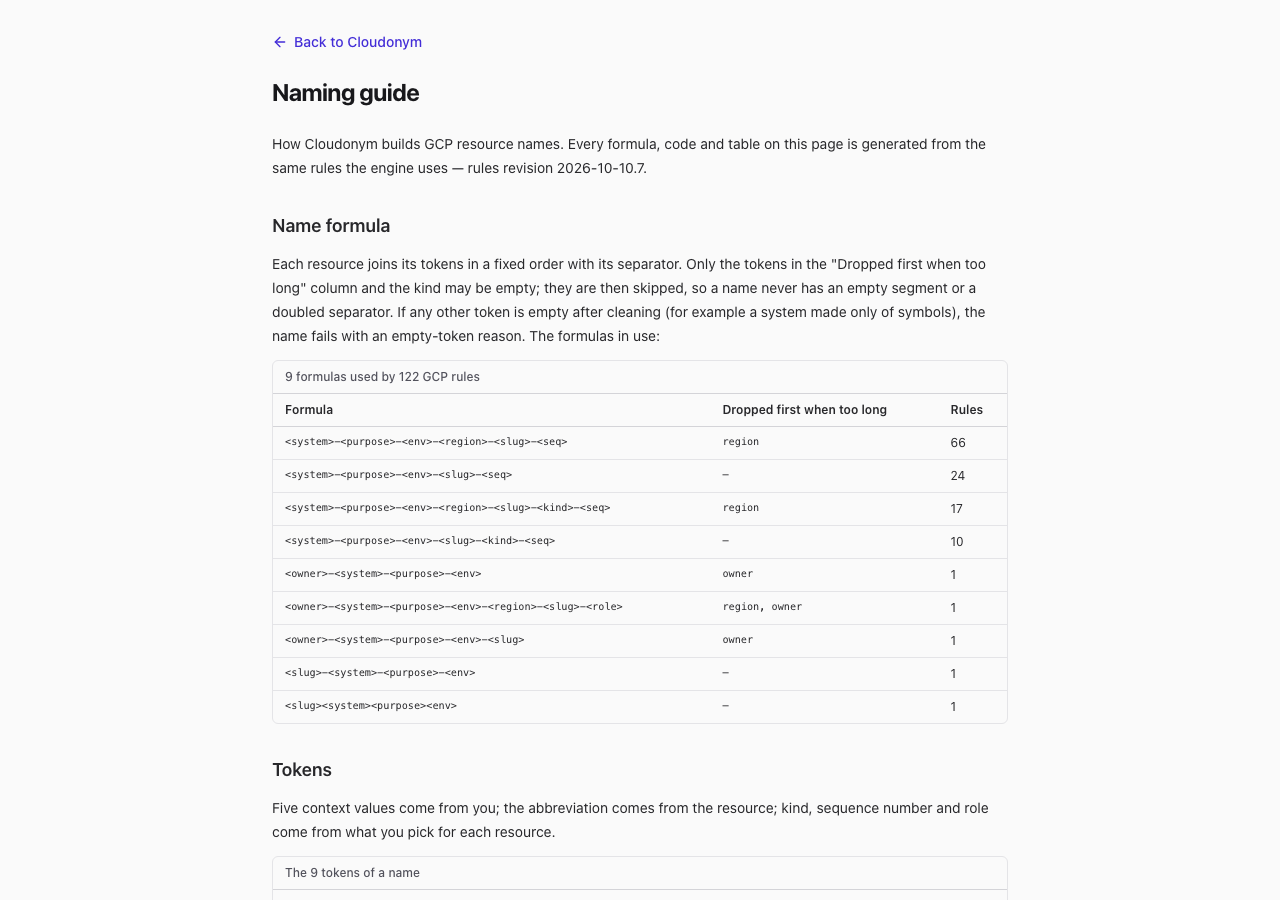
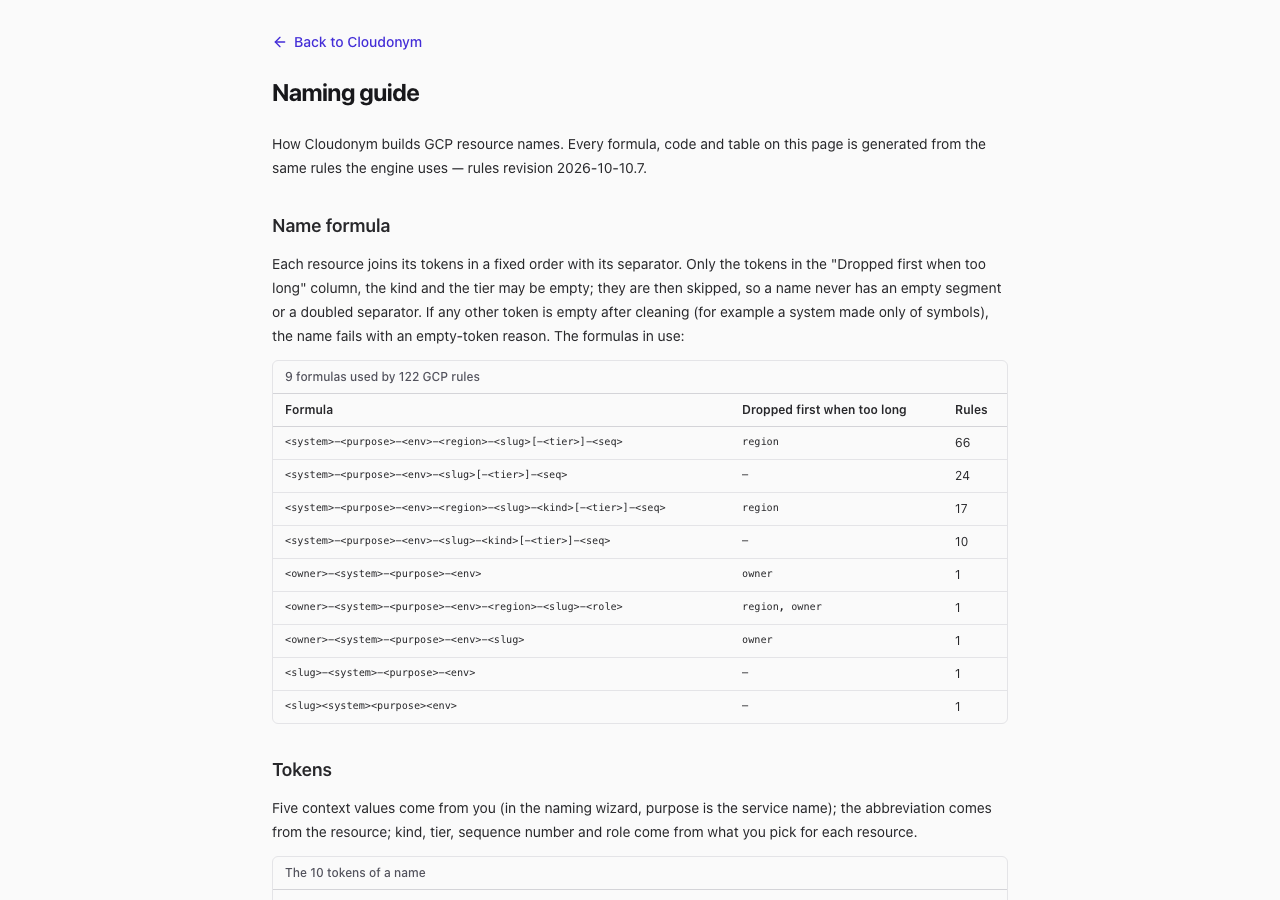
test(ui): check the twelve naming-guide sections and reshoot the guide screenshot
Scenario 28 now expects twelve sections, ten tokens, four attached-resource
rows, five preset groups, three tier lines and the [-<tier>] slot in the
formula table. 05-naming-guide.png is retaken; the other screenshots did
not change.

Claude-Session: https://claude.ai/code/session_01NB1jw2Yw5J4rzwGebTTUGd

diff --git a/tests/ui/screen.py b/tests/ui/screen.py
@@ -1229,18 +1229,20 @@ with sync_playwright() as p:
     no_hangul(page27)
     ctx27.close()
 
-    # ── ㉘ /docs/naming — 200 · 절 아홉 · 표 행 수(약어 101(Cloud Run 포함) · 리전 43 · 종류 토큰 19 · 환경 4 · 토큰 9) · PASS 문장 · 휴대폰 폭 · 스크린샷 (D57) ──
+    # ── ㉘ /docs/naming — 200 · 절 열둘 · 표 행 수(약어 101(Cloud Run 포함) · 리전 43 · 종류 토큰 19 · 환경 4 · 토큰 10 · 딸린 것 4 · 프리셋 묶음 5) · PASS 문장 · 휴대폰 폭 · 스크린샷 (D57) ──
     ctx28 = browser.new_context(viewport={'width': 360, 'height': 800})
     page28 = ctx28.new_page()
     page28.on('pageerror', lambda e: errors.append(str(e)))
     resp28 = page28.goto(BASE + '/docs/naming', wait_until='networkidle')
     assert resp28 is not None and resp28.status == 200, resp28 and resp28.status
     expect(page28.locator('h1')).to_have_text('Naming guide')
-    expect(page28.locator('[data-naming-doc] > section')).to_have_count(9)
-    for table_id, rows in {'abbreviations': 101, 'regions': 43, 'kinds': 19, 'env': 4, 'tokens': 9}.items():
+    expect(page28.locator('[data-naming-doc] > section')).to_have_count(12)
+    for table_id, rows in {'abbreviations': 101, 'regions': 43, 'kinds': 19, 'env': 4, 'tokens': 10, 'attached': 4, 'presets': 5}.items():
         expect(page28.locator(f'[data-doc-table="{table_id}"] tbody tr')).to_have_count(rows)
     expect(page28.locator('[data-doc-table] caption')).to_have_count(page28.locator('[data-doc-table]').count())
     expect(page28.locator('[data-doc-list="shrink"] li')).to_have_count(3)
+    expect(page28.locator('[data-doc-list="tiers"] li')).to_have_count(3)
+    expect(page28.locator('[data-doc-table="formula"]')).to_contain_text('[-<tier>]-<seq>')
     expect(page28.locator('#doc-abbreviations h3')).to_have_text('Abbreviation principles')
     expect(page28.locator('[data-doc-list="abbreviations"] li')).to_have_count(4)
     expect(page28.locator('[data-footer-privacy]')).to_have_attribute('href', '/privacy')
